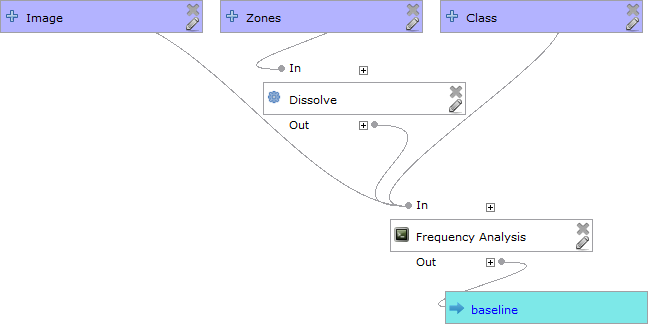
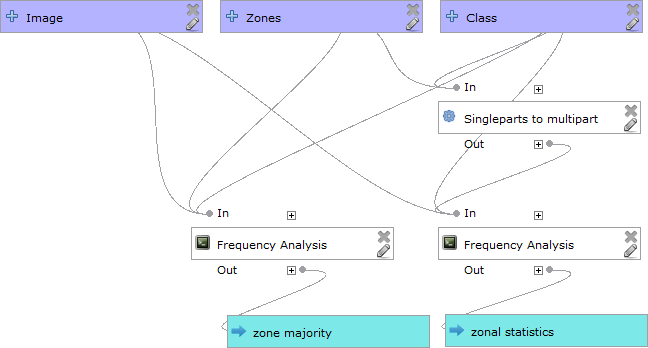
add model edit task

diff --git a/workshops/qgis/doc/source/conf.py b/workshops/qgis/doc/source/conf.py
@@ -79,8 +79,7 @@ pygments_style = 'sphinx'
 
 # The theme to use for HTML and HTML Help pages.  Major themes that come with
 # Sphinx are currently 'default' and 'sphinxdoc'.
-#html_theme = 'boundless_doc'
-html_theme = 'foss4g_2013'
+html_theme = 'boundless_training'
 
 # Add any paths that contain custom themes here, relative to this directory.
 html_theme_path = ['../../../../themes']

diff --git a/workshops/qgis/doc/source/modeller/model.rst b/workshops/qgis/doc/source/modeller/model.rst
@@ -1,5 +1,5 @@
-Createing a model
-=================
+Creating a model
+================
 
 #. In the processing toolbox, open :menuselection:`Models --> Tools --> Create new model`.
 
@@ -29,11 +29,13 @@ Createing a model
 
 #. Create a **Singleparts to multipart** process that takes the **Zones** parameter and the **Class** attribute as inputs. Set the output to :kbd:`zone statistics`.
 
-   .. figure:: images/raster_model_4.png
+   .. figure:: images/raster_model_3.png
 
       Complete model
 
-#. Create another **Frequency Analysis** process that takes the output of the **Singleparts to multipart** process (the other input settings are the same). Set the table output to :kbd:`zone statistics`.
+#. Create a second **Frequency Analysis** process that takes the output of the **Singleparts to multipart** process (the other input settings are the same). Set the table output to :kbd:`zone statistics`.
+
+   .. note:: 'Chains' that take one output and feed it into another process are the key to powerful models since they allow us to reproduce known steps while skipping the creation of all the intermediary layers that we have been adding and deleting.
 
 #. Give the model the name :kbd:`Zone analysis` and the group :kbd:`workshop`.
 
@@ -41,17 +43,4 @@ Createing a model
 
 We now have a complete model that takes three intputs and creates two outputs (one layer and one table). We can use this model to analyze any raster image to see the frequency statistics of zones defined in a polygon layer.
    
-.. note:: One limitation of this model is that the raster value of interest must always be in the first band. We could additionally parameterise the band number in our model.
-
-.. This exercise original contained these additional steps to create a baseline. However, adding these can cause Python to crash with 32-bit builds since the amount of memory required is large.
-
-   #. Add a **Dissolve** process that takes **Zones** as an input and does not use an attribute, but rather dissolves all borders. This will create our areas of interest layer to measure against.
-   
-      .. note:: We could have provided another input that would allow us to use our existing **Area of interest**, but calculating it dynamically allows this model to be reused even when we have not already pre-calculated the **Area of interest**.
-   
-   #. Create a new **Frequency Analysis** process that takes the output of the **Dissolved** process as the vector layer and the **Class** parameter for the :guilabel:`id_field`. The raster will be the **Image** input parameter. Set the table output to :kbd:`baseline`.
-   
-      .. figure:: images/raster_model_3.png
-   
-         Chaining two processes and leaving an output
-
+.. note:: One limitation of this model is that the raster value of interest must always be in the first band. We could additionally parameterise the band number in our model since the **Frequency analysis** script also takes this input parameter.

diff --git a/workshops/qgis/doc/source/modeller/edit.rst b/workshops/qgis/doc/source/modeller/edit.rst
@@ -1,0 +1,24 @@
+Modifying a model
+=================
+
+Our first model did not create a baseline table that shows the overall breakdown of values, something which can be useful for determining if results are significant. We created the baseline table for our **Surficial geology** layer by using a layer with a single feature that covered the entire area in which we are interested in.
+
+Without changing the inputs to our model, we can accomplish this same task by adding additional processes that generate the extra output we'd like.
+
+#. Open the existing model in the editor.
+
+#. Add a **Dissolve** process that takes **Zones** as an input and does not use an attribute, but rather dissolves all borders. This will create our areas of interest layer to measure against.
+
+   .. note:: We could have provided another input that would allow us to use our existing **Area of interest**, but calculating it dynamically allows this model to be reused even when we have not already pre-calculated the **Area of interest**.
+
+#. Create a new **Frequency Analysis** process that takes the output of the **Dissolve** process as the ``vector`` input parameter, and use the ``Class`` input parameter as the ``id_field``. 
+   
+#. Set the ``raster`` input to be the ``Image`` input parameter. Set the table output to :kbd:`zonal baseline`.
+
+   .. figure:: images/raster_model_4.png
+
+      Adding a baseline calculation
+
+#. Run the model, but save the three outputs to files in the `workshop\results` directory just as we did for the analysis of the **Surficial geometries** layer. 
+   
+#. Move the new additions into the correct groups in our layer list.

diff --git a/workshops/qgis/doc/source/modeller/running.rst b/workshops/qgis/doc/source/modeller/running.rst
@@ -3,8 +3,6 @@ Running a model
 
 Running a model is identical to runnning a regular process.
 
-#. Save the project.
-
 #. From the processing toolbox, select :menuselection:`Models --> workshop --> Zone analysis`.
 
 #. Set the :guilabel:`Image` parameter to **Land cover**.
@@ -13,4 +11,4 @@ Running a model is identical to runnning a regular process.
 
 #. Set the :guilabel:`Class` parameter to **RANGE**.
 
-#. Run the process.
+#. Run the process. A new layer and a new table will be created in the layer list.

diff --git a/workshops/qgis/doc/source/modeller/index.rst b/workshops/qgis/doc/source/modeller/index.rst
@@ -7,3 +7,4 @@ Modeller
    components
    model
    running
+   edit
